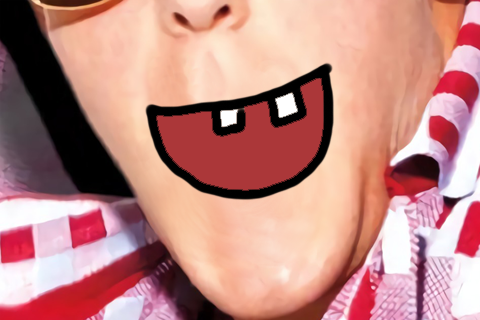
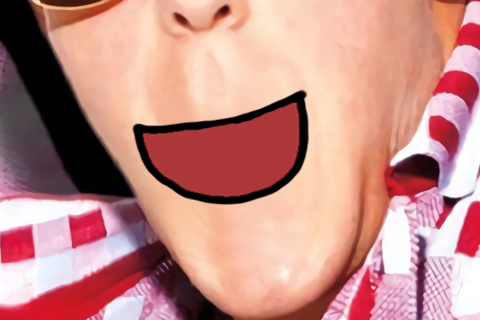
fix

Changed region(s): [[0.25, 0.1875, 0.7188, 0.6562]]

diff --git a/main.py b/main.py
@@ -1,6 +1,7 @@
 import speech_recognition as sr
 import pyttsx3
 import os
+import subprocess
 
 import vlc
 # for text-to-speech
@@ -68,34 +69,24 @@ class ChatBot():
         except:
             self.text="ERROR"
 
-    def get_next_audio_frame(self):
-        pass
 
-    def wakeword(self):
-        ppn = pvporcupine.create(access_key=access_key, keywords=['alexa', 'jarvis'])
-        keyword_index = ppn.process(get_next_audio_frame())
-        if keyword_index >= 0:
-            ai.awake = True
-        recorder = PvRecorder(device_index=-1)
-        recorder.start()
-
-        pcm = recorder.read()
-        ppn.process(pcm)
 
     @staticmethod
     def text_to_speech(text):
         print("Jake Paul --> ", text)
         speaker = gTTS(text=text, lang="en", slow=False)
-
         speaker.save("res.mp3")
+        subprocess.run(["rhubarb -o output.json -f --json-r --pocketSphinx res.mp3"])
         statbuf = os.stat("res.mp3")
         mbytes = statbuf.st_size / 1024
         duration = mbytes / 200
         result = pygame.mixer.music.load("res.mp3")
         pygame.mixer.music.play()
-        open = pygame.image.load("mouth/m4.png").convert()
-        closed = pygame.image.load("mouth/m2.png").convert()
         lights.purple()
+        start = time.time()
+        print("hello")
+        end = time.time()
+        print(end - start)
         while pygame.mixer.music.get_busy():
             pygame.time.wait(500)
             screen.blit(open, (0, 0))

diff --git a/rubarbtest.py b/rubarbtest.py
@@ -1,0 +1,29 @@
+import pygame
+import os
+import subprocess
+import time
+import json
+
+pygame.init()
+pygame.mixer.init()
+
+result = pygame.mixer.music.load("meme.mp3")
+subprocess.run(["rhubarb -o output.json -f --json-r --pocketSphinx meme.mp3"])
+
+
+f = open('output.json')
+  
+timing = json.load(f)
+  
+for i in timing['mouthCues']:
+    print(i)
+  
+f.close()
+
+pygame.mixer.music.play()
+start = time.time()
+while pygame.mixer.music.get_busy():
+    pass
+end = time.time()
+pygame.mixer.music.unload()
+os.remove("output.json")
